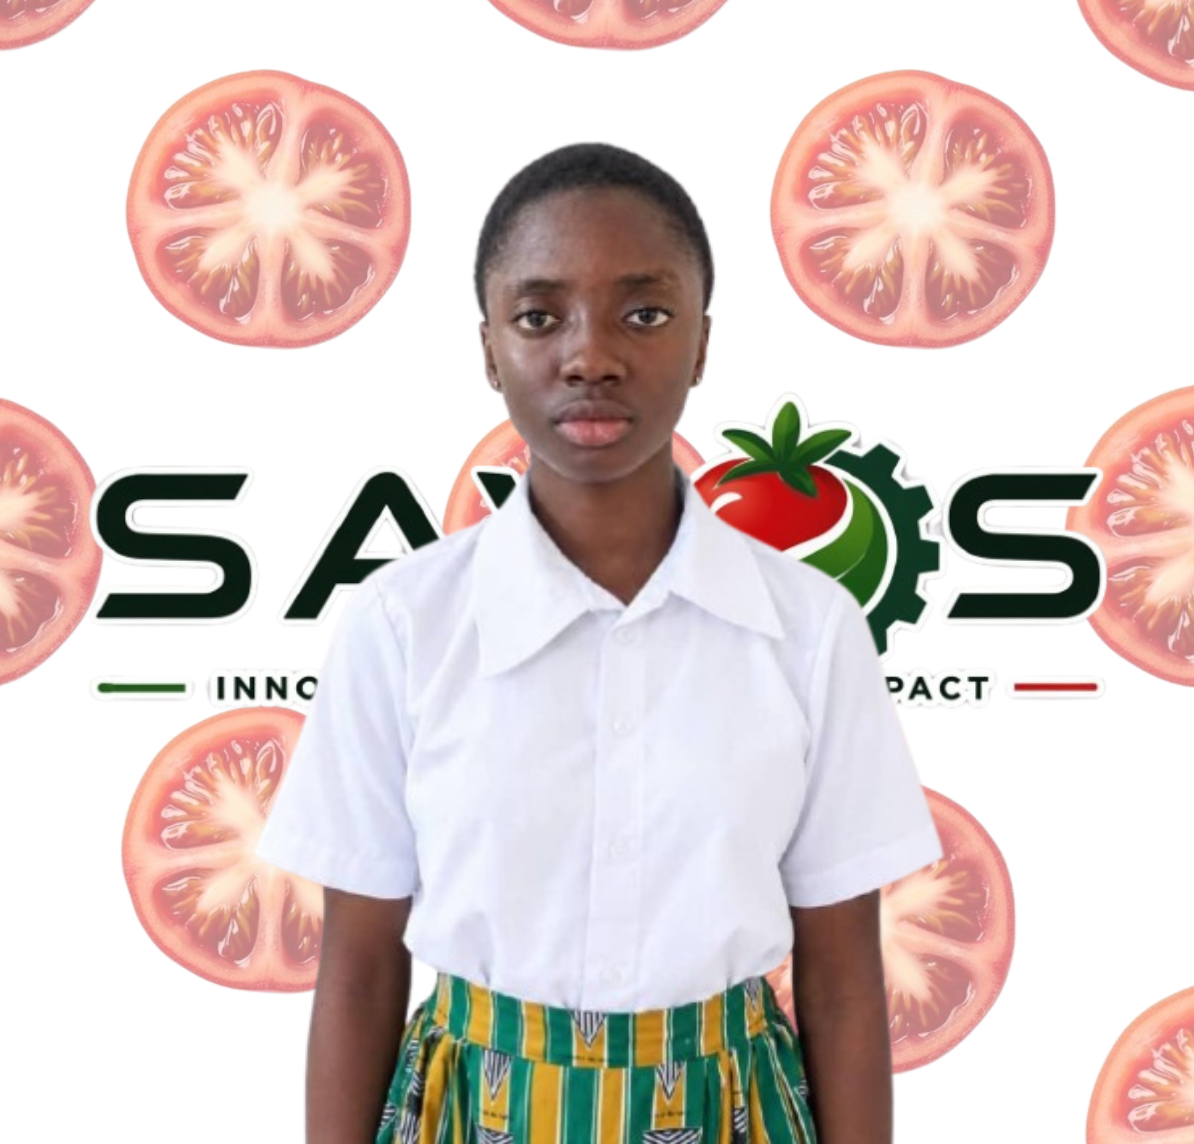
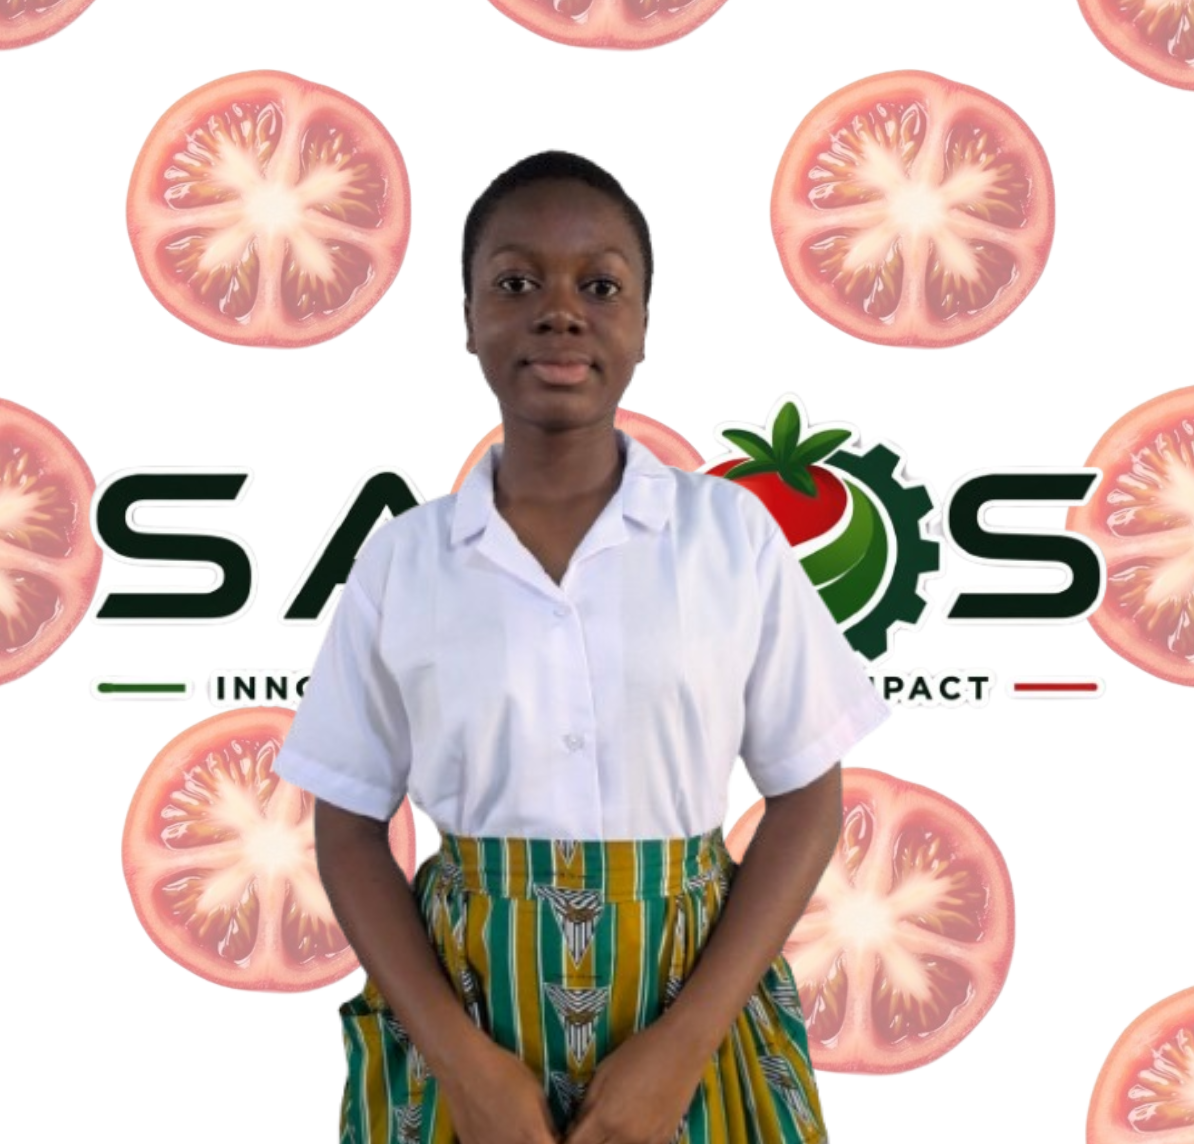
Complete SAVOS

Changed region(s): [[0.2169, 0.1224, 0.8057, 1.0]]

diff --git a/React/src/pages/About/About.jsx b/React/src/pages/About/About.jsx
@@ -2,10 +2,10 @@ import React from 'react'
 import './About.css'
 import Title from '../../Components/Title/Title'
 import Navbar from '../../Components/Navbar/Navbar'
-import about_img from '../../assets/about.png'
 import person1 from '../../assets/person1.png'
 import person2 from '../../assets/person2.png'
 import person4 from '../../assets/person4.png'
+import person3 from '../../assets/person3.png'
 import Footer from '../../Components/Footer/footer'
 import play_icon from '../../assets/red-arrow.png'
 // The image dimensions are 1194 × 1144 pixels.
@@ -69,12 +69,12 @@ const About = () => {
             That became the foundation of SAVOS and motivated us to explore tomato processing together.</p>
         </div>
         <div className="profile-picture">
-          <img src={about_img} className='propic'/>
+          <img src={person3} className='propic'/>
         </div>
        </div>
        <div className="project-lead">
         <div className="profile-picture">
-          <img src={about_img} className='propic'/>
+          <img src={person4} className='propic'/>
         </div>
         <div className="profile">
           <h3>Arthur Adelina Kwakyewaa</h3>
